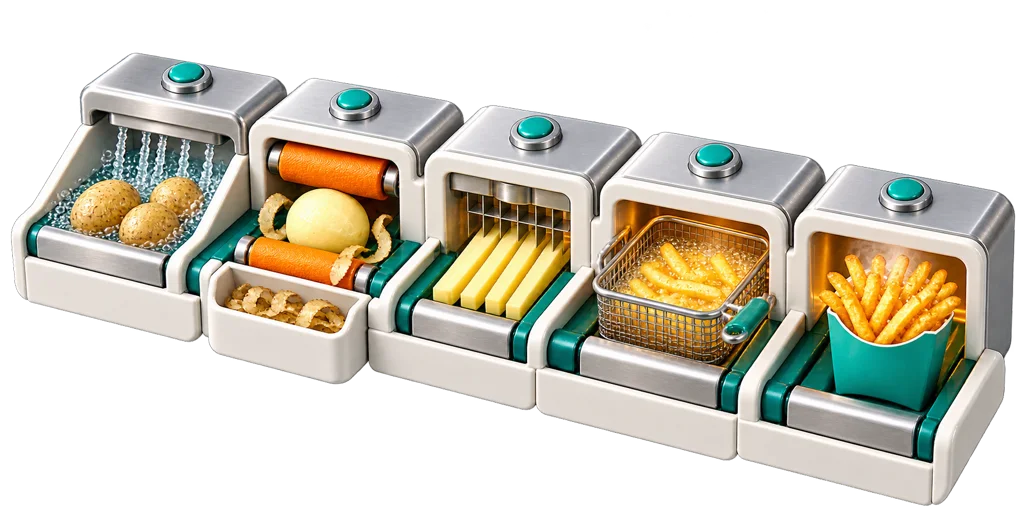
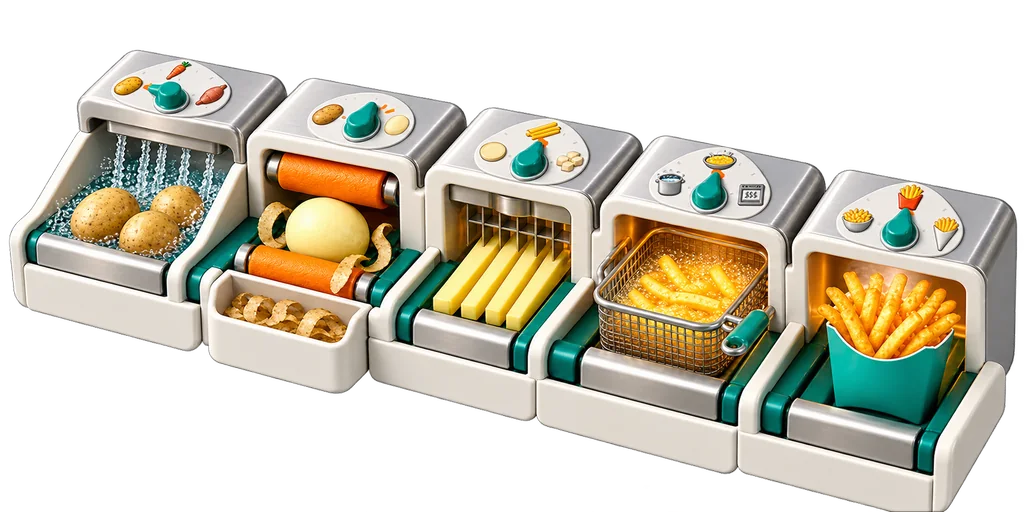
Show configurable framework cooking flow

diff --git a/programming-languages/index.html b/programming-languages/index.html
@@ -3,7 +3,7 @@
 <link rel="icon" href="../pwa-icon-web-knowledge-navy-512.png"><link rel="preconnect" href="https://fonts.googleapis.com"><link rel="preconnect" href="https://fonts.gstatic.com" crossorigin><link href="https://fonts.googleapis.com/css2?family=Noto+Sans+JP:wght@400;500;700;800&family=Poppins:wght@600;700;800&display=swap" rel="stylesheet"><link rel="stylesheet" href="../copyright.css"><link rel="stylesheet" href="style.css?v=20261025b"><link rel="stylesheet" href="../site-transition.css?v=20261025b"><script src="../site-transition.js?v=20261025b"></script></head><body>
 <a class="skip" href="#what">本文へ</a><main><header class="hero"><a class="portal-link" href="../index.html">← ポータルへ戻る</a><div class="split hero-grid"><div><p class="eyebrow">13 / PROGRAMMING LANGUAGES</p><h1>プログラム言語<br>について<span>つくりたいものから、<br>言葉と道具をつないでいこう。</span></h1><p class="lead">JavaScript、Python、React、Node.js…。<br>名前が増えても、大丈夫。<br>「何を書く？」「何で作る？」「どこで動く？」から、技術の地図を見てみましょう。</p><a class="primary-link" href="#terms">まずは、言葉の違いから ↓</a></div><picture><source type="image/webp" srcset="assets/language-workbench-640.webp 640w, assets/language-workbench-1024.webp 1024w" sizes="(max-width:700px) 90vw, 520px"><img src="assets/language-workbench.png" width="1536" height="1024" alt="コードの画面を開いた金属製ノートパソコンと立体的な構文タイル" fetchpriority="high" decoding="async"></picture></div><div class="hero-tags"><span>言語を知る</span><span>道具を知る</span><span>組み合わせを知る</span></div></header>
 <nav class="toc" aria-label="目次"><a href="#what">01 基本</a><a href="#terms">02 言葉の違い</a><a href="#languages">03 言語</a><a href="#family">04 JSの仲間</a><a href="#web">05 Web</a><a href="#sql">06 SQL</a><a href="#desktop">07 PCアプリ</a><a href="#choose">08 選び方</a></nav><section id="what" class="section"><p class="eyebrow">01 / THE BASIC IDEA</p><h2>言語が違っても、<br>基本の考え方はつながっている。</h2><p class="intro">プログラムは、コンピューターに伝える手順書。「値を覚える」「条件で分ける」「繰り返す」「まとめて呼び出す」は、さまざまな言語で出会う考え方です。</p><div class="concepts"><article class="soft-card"><picture><source type="image/webp" srcset="assets/variables-640.webp 640w, assets/variables-1024.webp 1024w" sizes="(max-width:700px) 90vw, 520px"><img src="assets/variables.png" width="1536" height="1024" alt="値を入れる場所を表す三つの引き出し" loading="lazy" decoding="async"></picture><p class="micro">VARIABLE</p><h3>値を覚える</h3><p>名前や点数に名前を付けて、後から使う。これが「変数」の出番です。</p></article><article class="soft-card"><picture><source type="image/webp" srcset="assets/conditions-640.webp 640w, assets/conditions-1024.webp 1024w" sizes="(max-width:700px) 90vw, 520px"><img src="assets/conditions.png" width="1536" height="1024" alt="条件によって二つに分かれる立体的な道" loading="lazy" decoding="async"></picture><p class="micro">CONDITION</p><h3>条件で分ける</h3><p>80点以上なら「合格」。条件を満たすかどうかで、処理の道を選びます。</p></article><article class="soft-card"><picture><source type="image/webp" srcset="assets/loops-640.webp 640w, assets/loops-1024.webp 1024w" sizes="(max-width:700px) 90vw, 520px"><img src="assets/loops.png" width="1536" height="1024" alt="ブロックを順番に運ぶ円形コンベヤー" loading="lazy" decoding="async"></picture><p class="micro">LOOP</p><h3>繰り返す</h3><p>名簿の一人ひとりに同じ処理をする。繰り返しで、手作業を減らします。</p></article><article class="soft-card concept-function"><picture><source type="image/webp" srcset="assets/functions-640.webp 640w, assets/functions-1024.webp 1024w" sizes="(max-width:700px) 90vw, 520px"><img src="assets/functions.png" width="1536" height="1024" alt="呼び出しボタンにつながった三工程の処理装置から完成したブロックが出てくる様子" loading="lazy" decoding="async"></picture><p class="micro">FUNCTION</p><h3>まとめて呼び出す</h3><p>一連の処理に名前を付けておき、好きなときに名前で呼び出す。同じ処理を何度も書かずに済みます。これが「関数」です。</p></article></div><div class="inset comparison"><h3>同じ「100 ＋ 200」を書き比べる</h3><p>文法が変わっても、計算したいことは同じです。</p><div class="code-tabs" role="group" aria-label="コード例の言語"><button type="button" data-language="js" aria-pressed="true">JavaScript</button><button type="button" data-language="python" aria-pressed="false">Python</button><button type="button" data-language="php" aria-pressed="false">PHP</button></div><pre id="comparison-code" aria-live="polite"><code>const total = 100 + 200;
-console.log(total);</code></pre><p class="result">出力 <strong>300</strong><span>読み比べ用の例です。実行はしません。</span></p></div></section><section id="terms" class="section"><p class="eyebrow">02 / WORDS BEFORE TOOLS</p><h2>言語・ライブラリ・フレームワーク。<br>何が違うの？</h2><p class="intro">料理を思い浮かべてみましょう。手順を示す「言葉」、便利な「道具」、流れが決まった「ミールキット」。プログラムの世界にも、似た役割があります。ここでは、じゃがいもの皮むきで比べてみます。</p><div class="concepts concepts--three"><article class="soft-card"><picture><source type="image/webp" srcset="assets/potato-language-640.webp 640w, assets/potato-language-1024.webp 1024w" sizes="(max-width:700px) 90vw, 360px"><img src="assets/potato-language.png" width="1774" height="887" alt="じゃがいもを両手で洗い、片手で持ちながら包丁で皮をむく二つの手順" loading="lazy" decoding="async"></picture><h3>言語 <small>＝ 手順を示す言葉</small></h3><p>「手で洗う → 手で持って包丁でむく」と、手順を一つずつ書くための、文法が決まった言葉です。</p><p class='example'>例：JavaScript、Python、PHP、C#、Java</p></article><article class="soft-card"><picture><source type="image/webp" srcset="assets/potato-library-640.webp 640w, assets/potato-library-1024.webp 1024w" sizes="(max-width:700px) 90vw, 360px"><img src="assets/potato-library.png" width="1536" height="1024" alt="道具箱から取り出したピーラーでじゃがいもの皮をむく様子" loading="lazy" decoding="async"></picture><h3>ライブラリ <small>＝ 便利な道具</small></h3><p>ピーラーのような便利な道具。よく使う処理をほかの人がまとめたもので、自分が必要なときに呼んで使います。</p><p class='example'>例：React、jQuery</p></article><article class="soft-card"><picture><source type="image/webp" srcset="assets/potato-framework-640.webp 640w, assets/potato-framework-1024.webp 1024w" sizes="(max-width:700px) 90vw, 360px"><img src="assets/potato-framework.png" width="1774" height="887" alt="じゃがいもを洗い、皮をむき、細長く切り、揚げてフレンチフライにする調理ライン" loading="lazy" decoding="async"></picture><h3>フレームワーク <small>＝ 流れが決まったキット</small></h3><p>「洗う → むく → 細長く切る → 揚げる」という調理の流れが先に決まっています。自分は「何を、どう切るか」だけを、決められた場所に書きます。</p><p class='example'>例：Next.js、Express、Electron</p></article></div><div class="note"><strong>違いは主導権：</strong>ライブラリは自分が呼び、フレームワークは流れのほうが自分を呼びます。境界が重なる道具もあるので、まずは公式の呼び方と役割を確かめましょう。</div><div class="inset"><h3>実行環境 ＝ 指示を動かす場所</h3><p>言葉で指示を書くだけでは、まだ動きません。書いた指示を処理する仕組みが必要です。JavaScriptならブラウザーやNode.js、JavaならJVMなどが実行環境に当たります。</p><p><strong>まとめると：</strong>言語で書き、道具やキットを使い、実行環境で動かす。料理でいえば、コンロや台所に当たります。この三つは組み合わせるものです。</p></div></section><section id="languages" class="section"><p class="eyebrow">03 / LANGUAGE PALETTE</p><h2>どんな言語が、何をする？</h2><p class="intro">一つの言語で作れるものは、一つだけではありません。よく出会う用途を入口に見てみましょう。</p><div class="cards"><article class="soft-card"><h3>JavaScript</h3><span class='badge'>プログラミング言語</span><p>ボタンに反応する画面や、サーバーの処理に。ブラウザーとNode.jsでは、使える機能が違います。</p></article><article class="soft-card"><h3>TypeScript</h3><span class='badge'>JavaScriptを拡張した言語</span><p>JavaScriptに型の仕組みを加えた言語。大きくなるコードの取り違えを、実行前に見つける助けに。</p></article><article class="soft-card"><h3>Python</h3><span class='badge'>プログラミング言語</span><p>ファイル整理、データ集計、Webのサーバー、PC用の道具など、幅広い処理に。</p></article><article class="soft-card"><h3>PHP</h3><span class='badge'>プログラミング言語</span><p>Webサーバーで動き、HTMLやAPIの応答を作る言語。ブラウザーにPHPのコードを実行させるわけではありません。</p></article><article class="soft-card"><h3>C#</h3><span class='badge'>プログラミング言語</span><p>主に.NETと組み合わせる言語。Windows向けの画面作りにはWPFやWindows Formsがあります。</p></article><article class="soft-card"><h3>Java</h3><span class='badge'>プログラミング言語</span><p>JVMで動かす言語。サーバーやPCアプリなどに。名前は似ていますが、JavaScriptとは別の言語です。</p></article><article class="soft-card"><h3>SQL</h3><span class='badge'>データベースへの問い合わせ言語</span><p>「必要な行を探して」「この値を更新して」とデータベースに伝える言語。アプリの言語と組み合わせます。</p></article></div><p class="note"><strong>HTMLとCSSは？</strong> HTMLは見出し・段落などの内容と構造を表すマークアップ言語。CSSは色・余白・配置などを指定するスタイルシート言語。JavaScriptと役割を分けて、Webの画面を作ります。</p></section><section id="family" class="section"><p class="eyebrow">04 / THE JAVASCRIPT CONNECTION</p><h2>JavaScriptを中心に、<br>道具が広がっている。</h2><div class="split"><div><p class="intro">「全部JavaScriptの派生形？」という感覚は、つながりを捉える入口になります。</p><p>ただし、すべてが新しい言語になったわけではありません。<strong>言語を拡張したもの、画面を作る道具、動かす場所</strong>が、一つの地図に集まっています。</p></div><picture><source type="image/webp" srcset="assets/code-to-machine-640.webp 640w, assets/code-to-machine-1024.webp 1024w" sizes="(max-width:700px) 90vw, 520px"><img src="assets/code-to-machine.png" width="1774" height="887" alt="コードが処理装置を通ってコンピューターのチップへ届く流れ" loading="lazy" decoding="async"></picture></div><div class="family-map inset"><div class="family-root"><small>中心になる言語</small><strong>JavaScript</strong></div><div class="family-branches"><div><span>書き方を拡張</span><b>TypeScript</b></div><div><span>画面の道具</span><b>React / jQuery</b></div><div><span>Reactでアプリ作り</span><b>Next.js</b></div><div><span>サーバーで実行</span><b>Node.js ＋ Express</b></div><div><span>Googleで自動化</span><b>GAS</b></div><div><span>PCアプリ作り</span><b>Electron</b></div></div><p>用途と役割の関係図です。TypeScriptはReact・Next.js・Expressなどと横断して組み合わせられます。すべてを使う必要はありません。</p></div><div class="cards roles"><article class="soft-card"><span class="badge">言語</span><h3>TypeScript</h3><p>JavaScriptに「型」のチェックを追加。数字のはずの場所に文字を入れる、といった取り違えを見つける助けになります。通常はJavaScriptに変換して動かします。</p></article><article class="soft-card"><span class="badge">実行環境</span><h3>Node.js</h3><p>ブラウザーの外でJavaScriptを動かす場所。サーバーの処理や、開発用の道具を動かすときに使います。</p></article><article class="soft-card"><span class="badge">ライブラリ</span><h3>React / React.js</h3><p>ボタン・一覧などの画面を、部品（コンポーネント）に分けて作る道具。JavaScriptやTypeScriptで書けます。</p></article><article class="soft-card"><span class="badge">ライブラリ</span><h3>jQuery</h3><p>画面の要素を探す・書き換える・クリックに反応する、といった処理を短く書くための道具。JavaScriptの代わりとなる別言語ではありません。</p></article><article class="soft-card"><span class="badge">フレームワーク</span><h3>Next.js</h3><p>Reactを使ってアプリを組み立てる枠組み。ページの切り替えや、サーバーで行う処理なども扱います。</p></article><article class="soft-card"><span class="badge">フレームワーク</span><h3>Express</h3><p>Node.jsでWebサーバーやAPIを作る枠組み。どのURLへのリクエストに何を返すか、といった処理を整理します。</p></article><article class="soft-card"><span class="badge">開発プラットフォーム</span><h3>GAS / Google Apps Script</h3><p>GoogleのサーバーでJavaScriptを動かし、スプレッドシートやGmailなどを操作する仕組み。Node.jsとは使える機能が異なります。</p></article><article class="soft-card"><span class="badge">デスクトップ用フレームワーク</span><h3>Electron</h3><p>HTML・CSS・JavaScriptの画面をPCアプリにする枠組み。ブラウザーの技術とNode.jsを組み込みます。</p></article></div><p class="note"><strong>ReactとjQueryは、同じ分類でも得意な作り方が違います。</strong> Reactは部品とデータから画面を組み立て、jQueryは画面の要素を選んで操作する処理を助けます。ReactにjQueryを足さないと動かない、という関係ではありません。</p><div class="gas-strip inset"><div><h3>GASは「JavaScript ＋ Googleの便利な機能」</h3><p>シートの値を読んで、カレンダーに予定を登録する。Google側でコードを動かしてサービスをつなぎます。扱うデータに応じて承認が必要です。</p><a href="../gas/index.html">GASの教材へ →</a></div><pre><code>// GASでシートのA1を読む例
+console.log(total);</code></pre><p class="result">出力 <strong>300</strong><span>読み比べ用の例です。実行はしません。</span></p></div></section><section id="terms" class="section"><p class="eyebrow">02 / WORDS BEFORE TOOLS</p><h2>言語・ライブラリ・フレームワーク。<br>何が違うの？</h2><p class="intro">料理を思い浮かべてみましょう。手順を示す「言葉」、便利な「道具」、流れが決まった「ミールキット」。プログラムの世界にも、似た役割があります。ここでは、じゃがいもの皮むきで比べてみます。</p><div class="concepts concepts--three"><article class="soft-card"><picture><source type="image/webp" srcset="assets/potato-language-640.webp 640w, assets/potato-language-1024.webp 1024w" sizes="(max-width:700px) 90vw, 360px"><img src="assets/potato-language.png" width="1774" height="887" alt="じゃがいもを両手で洗い、片手で持ちながら包丁で皮をむく二つの手順" loading="lazy" decoding="async"></picture><h3>言語 <small>＝ 手順を示す言葉</small></h3><p>「手で洗う → 手で持って包丁でむく」と、手順を一つずつ書くための、文法が決まった言葉です。</p><p class='example'>例：JavaScript、Python、PHP、C#、Java</p></article><article class="soft-card"><picture><source type="image/webp" srcset="assets/potato-library-640.webp 640w, assets/potato-library-1024.webp 1024w" sizes="(max-width:700px) 90vw, 360px"><img src="assets/potato-library.png" width="1536" height="1024" alt="道具箱から取り出したピーラーでじゃがいもの皮をむく様子" loading="lazy" decoding="async"></picture><h3>ライブラリ <small>＝ 便利な道具</small></h3><p>ピーラーのような便利な道具。よく使う処理をほかの人がまとめたもので、自分が必要なときに呼んで使います。</p><p class='example'>例：React、jQuery</p></article><article class="soft-card"><picture><source type="image/webp" srcset="assets/potato-framework-640.webp 640w, assets/potato-framework-1024.webp 1024w" sizes="(max-width:700px) 90vw, 360px"><img src="assets/potato-framework.png" width="1774" height="887" alt="食材・皮むき・切り方・調理法をダイヤルで選び、フレンチフライを作る調理ライン" loading="lazy" decoding="async"></picture><h3>フレームワーク <small>＝ 流れが決まったキット</small></h3><p>料理を順に進める場所と基本の流れが、先に用意された調理ラインです。決められた場所で、食材・切り方・調理法を選べます。この絵では「じゃがいも・細切り・揚げる」を選んでいます。</p><p class='example'>例：Next.js、Express、Electron</p></article></div><div class="note"><strong>違いは主導権：</strong>ライブラリは自分が呼び、フレームワークは流れのほうが自分を呼びます。境界が重なる道具もあるので、まずは公式の呼び方と役割を確かめましょう。</div><div class="inset"><h3>実行環境 ＝ 指示を動かす場所</h3><p>言葉で指示を書くだけでは、まだ動きません。書いた指示を処理する仕組みが必要です。JavaScriptならブラウザーやNode.js、JavaならJVMなどが実行環境に当たります。</p><p><strong>まとめると：</strong>言語で書き、道具やキットを使い、実行環境で動かす。料理でいえば、コンロや台所に当たります。この三つは組み合わせるものです。</p></div></section><section id="languages" class="section"><p class="eyebrow">03 / LANGUAGE PALETTE</p><h2>どんな言語が、何をする？</h2><p class="intro">一つの言語で作れるものは、一つだけではありません。よく出会う用途を入口に見てみましょう。</p><div class="cards"><article class="soft-card"><h3>JavaScript</h3><span class='badge'>プログラミング言語</span><p>ボタンに反応する画面や、サーバーの処理に。ブラウザーとNode.jsでは、使える機能が違います。</p></article><article class="soft-card"><h3>TypeScript</h3><span class='badge'>JavaScriptを拡張した言語</span><p>JavaScriptに型の仕組みを加えた言語。大きくなるコードの取り違えを、実行前に見つける助けに。</p></article><article class="soft-card"><h3>Python</h3><span class='badge'>プログラミング言語</span><p>ファイル整理、データ集計、Webのサーバー、PC用の道具など、幅広い処理に。</p></article><article class="soft-card"><h3>PHP</h3><span class='badge'>プログラミング言語</span><p>Webサーバーで動き、HTMLやAPIの応答を作る言語。ブラウザーにPHPのコードを実行させるわけではありません。</p></article><article class="soft-card"><h3>C#</h3><span class='badge'>プログラミング言語</span><p>主に.NETと組み合わせる言語。Windows向けの画面作りにはWPFやWindows Formsがあります。</p></article><article class="soft-card"><h3>Java</h3><span class='badge'>プログラミング言語</span><p>JVMで動かす言語。サーバーやPCアプリなどに。名前は似ていますが、JavaScriptとは別の言語です。</p></article><article class="soft-card"><h3>SQL</h3><span class='badge'>データベースへの問い合わせ言語</span><p>「必要な行を探して」「この値を更新して」とデータベースに伝える言語。アプリの言語と組み合わせます。</p></article></div><p class="note"><strong>HTMLとCSSは？</strong> HTMLは見出し・段落などの内容と構造を表すマークアップ言語。CSSは色・余白・配置などを指定するスタイルシート言語。JavaScriptと役割を分けて、Webの画面を作ります。</p></section><section id="family" class="section"><p class="eyebrow">04 / THE JAVASCRIPT CONNECTION</p><h2>JavaScriptを中心に、<br>道具が広がっている。</h2><div class="split"><div><p class="intro">「全部JavaScriptの派生形？」という感覚は、つながりを捉える入口になります。</p><p>ただし、すべてが新しい言語になったわけではありません。<strong>言語を拡張したもの、画面を作る道具、動かす場所</strong>が、一つの地図に集まっています。</p></div><picture><source type="image/webp" srcset="assets/code-to-machine-640.webp 640w, assets/code-to-machine-1024.webp 1024w" sizes="(max-width:700px) 90vw, 520px"><img src="assets/code-to-machine.png" width="1774" height="887" alt="コードが処理装置を通ってコンピューターのチップへ届く流れ" loading="lazy" decoding="async"></picture></div><div class="family-map inset"><div class="family-root"><small>中心になる言語</small><strong>JavaScript</strong></div><div class="family-branches"><div><span>書き方を拡張</span><b>TypeScript</b></div><div><span>画面の道具</span><b>React / jQuery</b></div><div><span>Reactでアプリ作り</span><b>Next.js</b></div><div><span>サーバーで実行</span><b>Node.js ＋ Express</b></div><div><span>Googleで自動化</span><b>GAS</b></div><div><span>PCアプリ作り</span><b>Electron</b></div></div><p>用途と役割の関係図です。TypeScriptはReact・Next.js・Expressなどと横断して組み合わせられます。すべてを使う必要はありません。</p></div><div class="cards roles"><article class="soft-card"><span class="badge">言語</span><h3>TypeScript</h3><p>JavaScriptに「型」のチェックを追加。数字のはずの場所に文字を入れる、といった取り違えを見つける助けになります。通常はJavaScriptに変換して動かします。</p></article><article class="soft-card"><span class="badge">実行環境</span><h3>Node.js</h3><p>ブラウザーの外でJavaScriptを動かす場所。サーバーの処理や、開発用の道具を動かすときに使います。</p></article><article class="soft-card"><span class="badge">ライブラリ</span><h3>React / React.js</h3><p>ボタン・一覧などの画面を、部品（コンポーネント）に分けて作る道具。JavaScriptやTypeScriptで書けます。</p></article><article class="soft-card"><span class="badge">ライブラリ</span><h3>jQuery</h3><p>画面の要素を探す・書き換える・クリックに反応する、といった処理を短く書くための道具。JavaScriptの代わりとなる別言語ではありません。</p></article><article class="soft-card"><span class="badge">フレームワーク</span><h3>Next.js</h3><p>Reactを使ってアプリを組み立てる枠組み。ページの切り替えや、サーバーで行う処理なども扱います。</p></article><article class="soft-card"><span class="badge">フレームワーク</span><h3>Express</h3><p>Node.jsでWebサーバーやAPIを作る枠組み。どのURLへのリクエストに何を返すか、といった処理を整理します。</p></article><article class="soft-card"><span class="badge">開発プラットフォーム</span><h3>GAS / Google Apps Script</h3><p>GoogleのサーバーでJavaScriptを動かし、スプレッドシートやGmailなどを操作する仕組み。Node.jsとは使える機能が異なります。</p></article><article class="soft-card"><span class="badge">デスクトップ用フレームワーク</span><h3>Electron</h3><p>HTML・CSS・JavaScriptの画面をPCアプリにする枠組み。ブラウザーの技術とNode.jsを組み込みます。</p></article></div><p class="note"><strong>ReactとjQueryは、同じ分類でも得意な作り方が違います。</strong> Reactは部品とデータから画面を組み立て、jQueryは画面の要素を選んで操作する処理を助けます。ReactにjQueryを足さないと動かない、という関係ではありません。</p><div class="gas-strip inset"><div><h3>GASは「JavaScript ＋ Googleの便利な機能」</h3><p>シートの値を読んで、カレンダーに予定を登録する。Google側でコードを動かしてサービスをつなぎます。扱うデータに応じて承認が必要です。</p><a href="../gas/index.html">GASの教材へ →</a></div><pre><code>// GASでシートのA1を読む例
 const sheet = SpreadsheetApp
   .getActiveSpreadsheet()
   .getActiveSheet();
